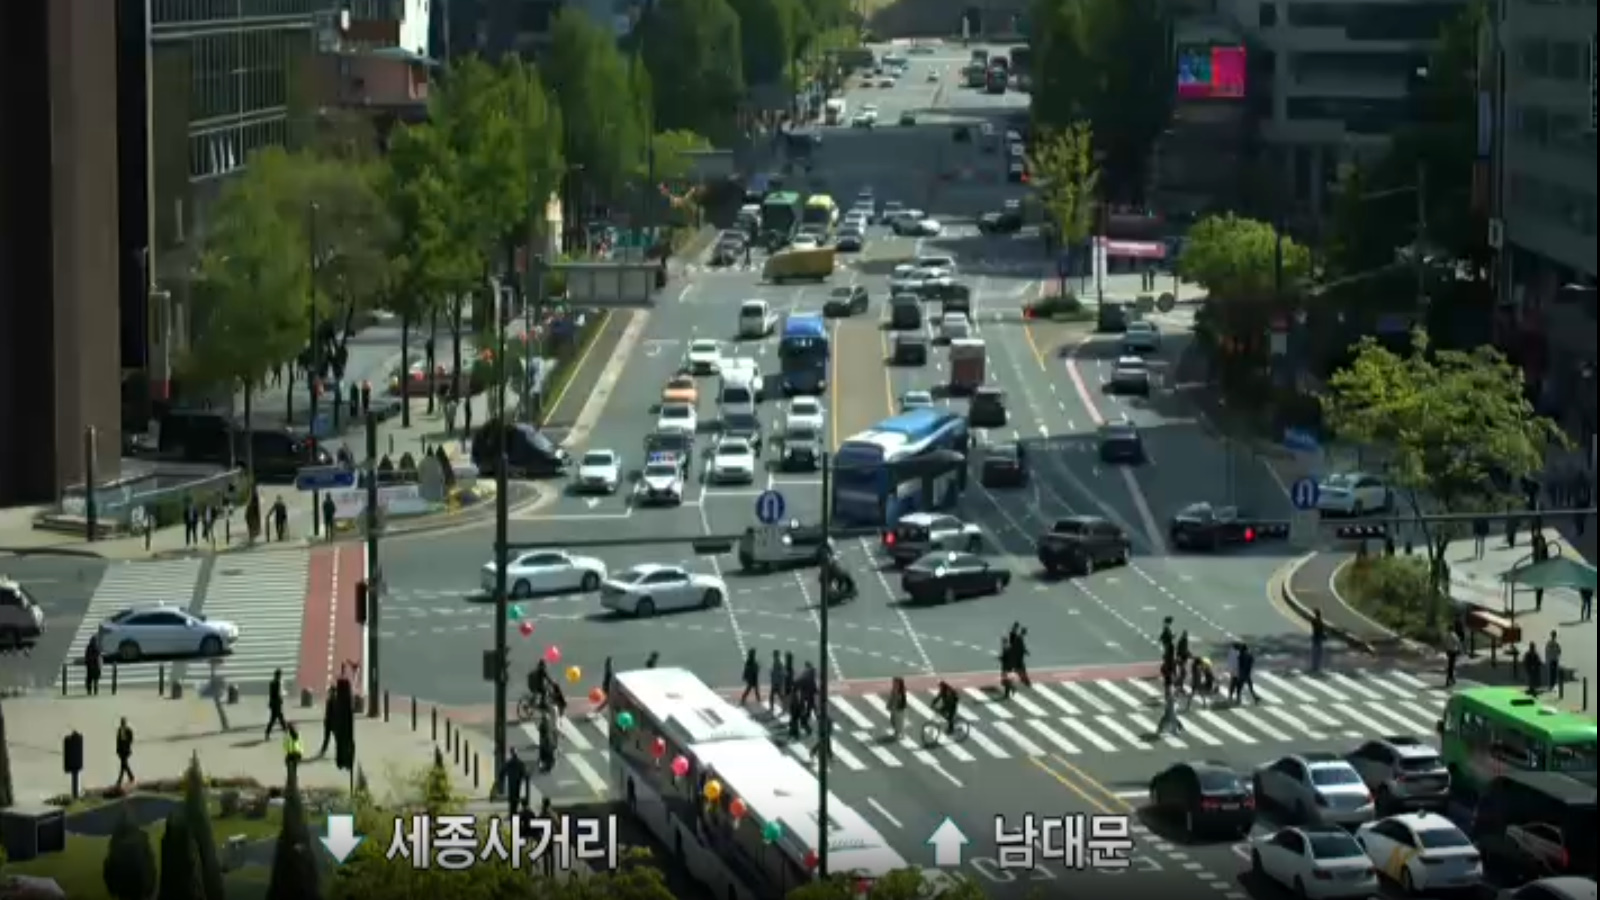
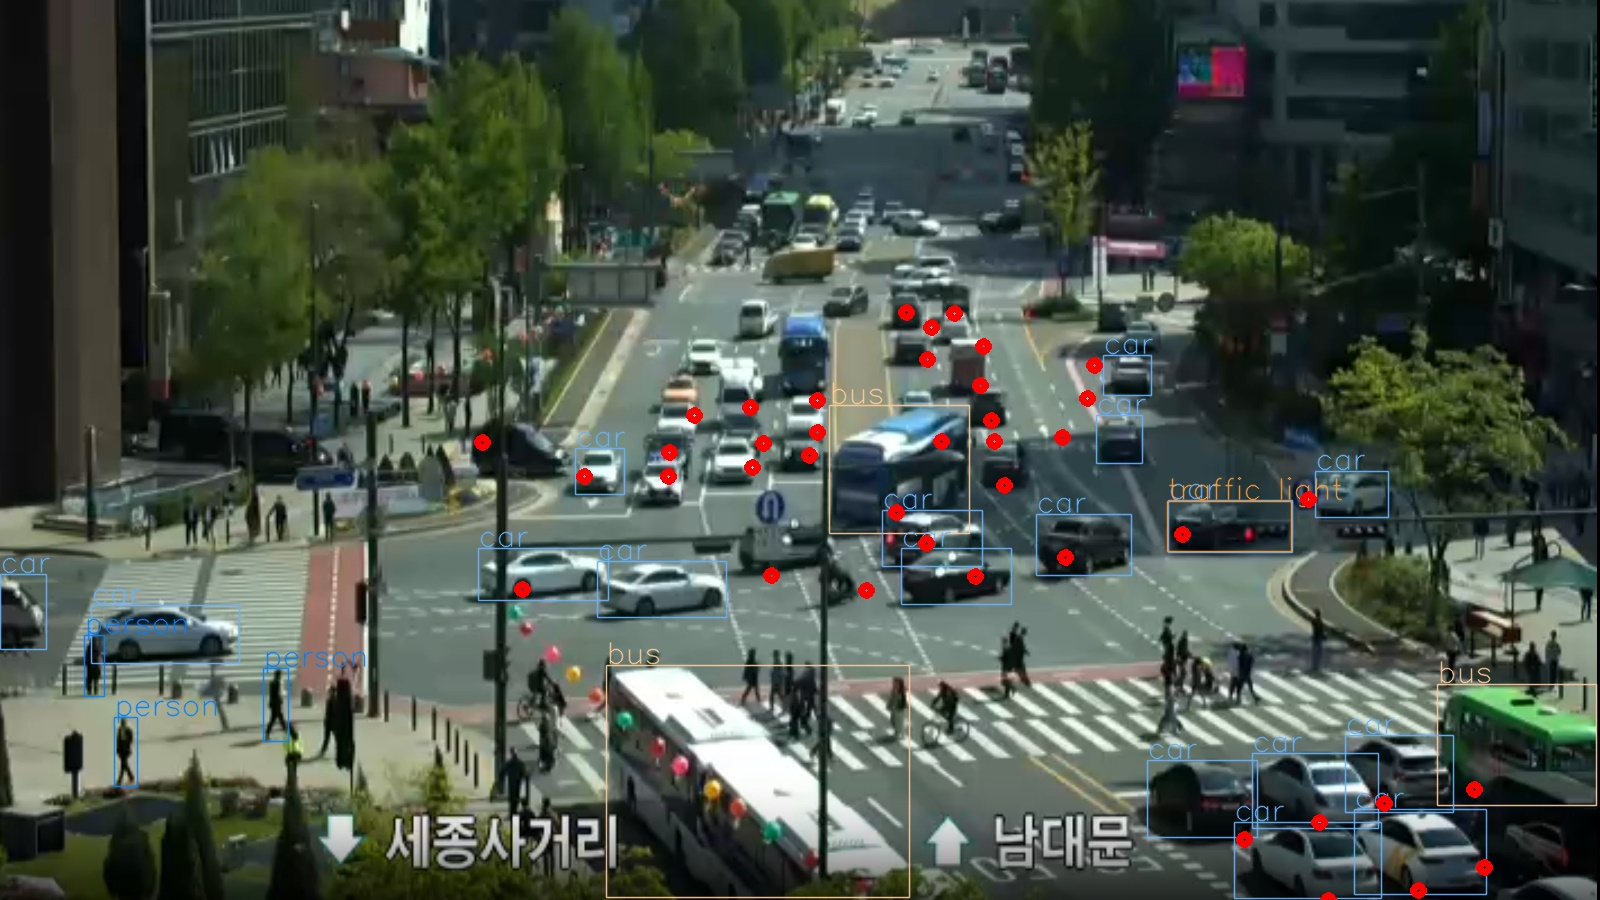
v2i results

diff --git a/vision2ip.py b/vision2ip.py
@@ -58,7 +58,7 @@ class Vision2IP(GPS2Pixel):
         None
 
 if __name__=='__main__':
-    road_path = os.path.join('GyungSu', 'GS002')
+    road_path = os.path.join('Koorong', 'KO001')
     path_bundle = util.path_load(road_path)
     input_im, car_data, grid_data = util.load_input(path_bundle)
 
@@ -71,8 +71,9 @@ if __name__=='__main__':
 
 
     img = detection.plot(input_im, res)
-    
+    # import pdb; pdb.set_trace()
     for car_id in car_data.keys():
+        print( car_data[car_id]['pixel'])
         img = cv2.circle(img, car_data[car_id]['pixel'], 5, (0, 0, 255), 5)
     
     cv2.imshow('img', img)
